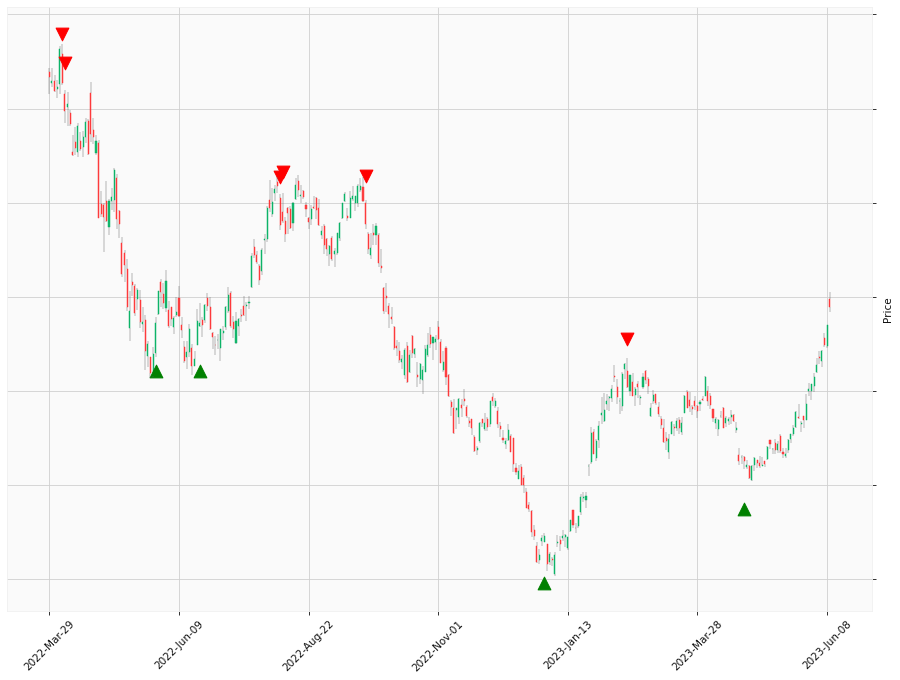
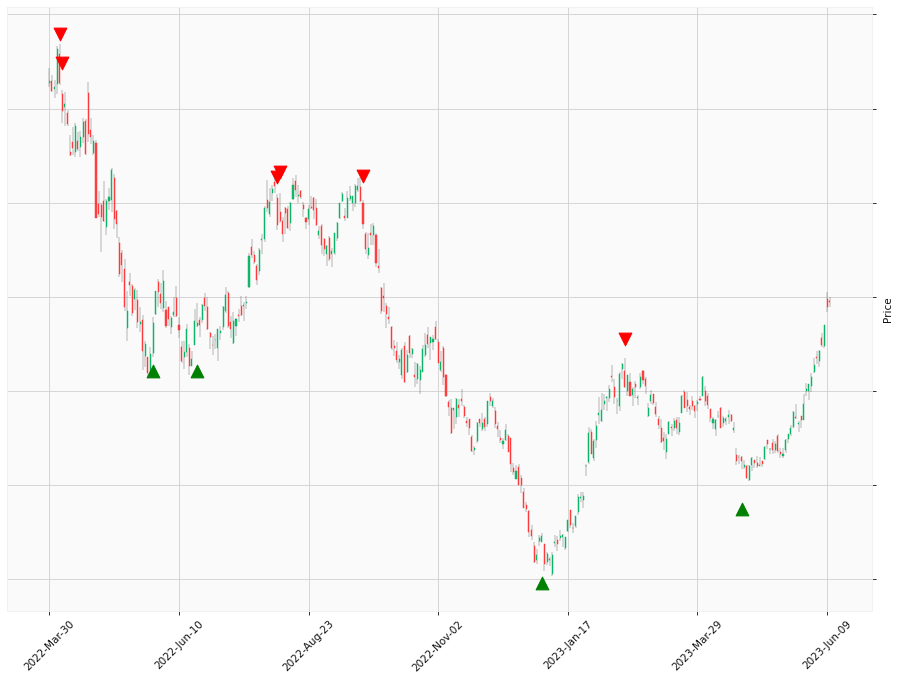
See https://github.com/HappyLabz/HappyLabz_v1/commit/c36e7869bde9970ff51536474ab317aa4ef8d44d from refs/heads/main

diff --git a/SPY.md b/SPY.md
@@ -64,73 +64,81 @@
         <td>4</td>
         <td>Long</td>
         <td>Sep 28 2022 Close</td>
-        <td>-1.06 %</td>
-        <td>44.59 %</td>
-        <td>51.29 %</td>
+        <td>-3.60 %</td>
+        <td>42.04 %</td>
+        <td>47.40 %</td>
     </tr>
     <tr>
         <td>5</td>
         <td>Long</td>
-        <td>Oct 03 2022 Close</td>
-        <td>-0.17 %</td>
-        <td>44.42 %</td>
-        <td>51.03 %</td>
+        <td>Sep 30 2022 Close</td>
+        <td>2.64 %</td>
+        <td>44.68 %</td>
+        <td>51.29 %</td>
     </tr>
     <tr>
         <td>6</td>
         <td>Long</td>
-        <td>Oct 13 2022 Close</td>
-        <td>11.19 %</td>
-        <td>55.60 %</td>
-        <td>67.93 %</td>
+        <td>Oct 03 2022 Close</td>
+        <td>-0.17 %</td>
+        <td>44.51 %</td>
+        <td>51.03 %</td>
     </tr>
     <tr>
         <td>7</td>
-        <td>Short</td>
-        <td>Dec 02 2022 Close</td>
-        <td>-5.08 %</td>
-        <td>60.68 %</td>
-        <td>76.46 %</td>
+        <td>Long</td>
+        <td>Oct 13 2022 Close</td>
+        <td>11.19 %</td>
+        <td>55.70 %</td>
+        <td>67.93 %</td>
     </tr>
     <tr>
         <td>8</td>
-        <td>Long</td>
-        <td>Dec 21 2022 Close</td>
-        <td>-0.72 %</td>
-        <td>59.96 %</td>
-        <td>75.19 %</td>
+        <td>Short</td>
+        <td>Dec 02 2022 Close</td>
+        <td>-5.08 %</td>
+        <td>60.78 %</td>
+        <td>76.46 %</td>
     </tr>
     <tr>
         <td>9</td>
         <td>Long</td>
-        <td>Dec 29 2022 Close</td>
-        <td>7.54 %</td>
-        <td>67.50 %</td>
-        <td>88.39 %</td>
+        <td>Dec 21 2022 Close</td>
+        <td>-0.72 %</td>
+        <td>60.06 %</td>
+        <td>75.19 %</td>
     </tr>
     <tr>
         <td>10</td>
-        <td>Short</td>
-        <td>Feb 03 2023 Close</td>
-        <td>-0.41 %</td>
-        <td>67.91 %</td>
-        <td>89.17 %</td>
+        <td>Long</td>
+        <td>Dec 29 2022 Close</td>
+        <td>7.54 %</td>
+        <td>67.60 %</td>
+        <td>88.39 %</td>
     </tr>
     <tr>
         <td>11</td>
         <td>Short</td>
-        <td>Feb 08 2023 Close</td>
-        <td>-4.61 %</td>
-        <td>72.52 %</td>
-        <td>97.89 %</td>
+        <td>Feb 03 2023 Close</td>
+        <td>-0.41 %</td>
+        <td>68.01 %</td>
+        <td>89.17 %</td>
     </tr>
     <tr>
         <td>12</td>
+        <td>Short</td>
+        <td>Feb 08 2023 Close</td>
+        <td>-4.61 %</td>
+        <td>72.62 %</td>
+        <td>97.89 %</td>
+    </tr>
+    <tr>
+        <td>13</td>
         <td>Long</td>
         <td>Mar 14 2023 Close</td>
-        <td>9.74 %</td>
-        <td>82.26 %</td>
-        <td>117.17 %</td>
+        <td>10.11 %</td>
+        <td>82.73 %</td>
+        <td>117.90 %</td>
     </tr>
     
 </table>
@@ -146,23 +154,23 @@
     <tbody>
         <tr>
             <td>SPY (Buy and Hold)</td>
-            <td>2022-03-31 Close <b>-</b> 2023-06-09 Close</td>
-            <td>-4.81 %</td>
+            <td>2022-03-31 Close <b>-</b> 2023-06-12 Close</td>
+            <td>-4.49 %</td>
         </tr>
         <tr>
             <td>SPY (HLT Cumulative % Gain)</td>
-            <td>2022-03-31 Close <b>-</b> 2023-06-09 Close</td>
-            <td>82.26 %</td>
+            <td>2022-03-31 Close <b>-</b> 2023-06-12 Close</td>
+            <td>82.73 %</td>
         </tr>
         <tr>
             <td>SPY (HLT Reinvested % Gain)</td>
-            <td>2022-03-31 Close <b>-</b> 2023-06-09 Close</td>
-            <td>117.17 %</td>
+            <td>2022-03-31 Close <b>-</b> 2023-06-12 Close</td>
+            <td>117.90 %</td>
         </tr>
         <tr>
             <td>S&P 500 (Buy and Hold)</td>
-            <td>2022-03-31 Close <b>-</b> 2023-06-09 Close</td>
-            <td>-4.81 %</td>
+            <td>2022-03-31 Close <b>-</b> 2023-06-12 Close</td>
+            <td>-4.49 %</td>
         </tr>
     </tbody>
 </table>

diff --git a/TSLA.md b/TSLA.md
@@ -112,9 +112,9 @@
         <td>10</td>
         <td>Long</td>
         <td>Apr 24 2023 Close</td>
-        <td>50.35 %</td>
-        <td>249.71 %</td>
-        <td>679.69 %</td>
+        <td>51.98 %</td>
+        <td>251.34 %</td>
+        <td>688.12 %</td>
     </tr>
     
 </table>
@@ -130,23 +130,23 @@
     <tbody>
         <tr>
             <td>TSLA (Buy and Hold)</td>
-            <td>2022-04-05 Close <b>-</b> 2023-06-09 Close</td>
-            <td>-32.81 %</td>
+            <td>2022-04-05 Close <b>-</b> 2023-06-12 Close</td>
+            <td>-32.09 %</td>
         </tr>
         <tr>
             <td>TSLA (HLT Cumulative % Gain)</td>
-            <td>2022-04-05 Close <b>-</b> 2023-06-09 Close</td>
-            <td>249.71 %</td>
+            <td>2022-04-05 Close <b>-</b> 2023-06-12 Close</td>
+            <td>251.34 %</td>
         </tr>
         <tr>
             <td>TSLA (HLT Reinvested % Gain)</td>
-            <td>2022-04-05 Close <b>-</b> 2023-06-09 Close</td>
-            <td>679.69 %</td>
+            <td>2022-04-05 Close <b>-</b> 2023-06-12 Close</td>
+            <td>688.12 %</td>
         </tr>
         <tr>
             <td>S&P 500 (Buy and Hold)</td>
-            <td>2022-04-05 Close <b>-</b> 2023-06-09 Close</td>
-            <td>-4.68 %</td>
+            <td>2022-04-05 Close <b>-</b> 2023-06-12 Close</td>
+            <td>-4.37 %</td>
         </tr>
     </tbody>
 </table>

diff --git a/AAPL.md b/AAPL.md
@@ -80,9 +80,9 @@
         <td>6</td>
         <td>Long</td>
         <td>Mar 02 2023 Close</td>
-        <td>24.02 %</td>
-        <td>105.48 %</td>
-        <td>159.65 %</td>
+        <td>25.10 %</td>
+        <td>106.56 %</td>
+        <td>161.92 %</td>
     </tr>
     
 </table>
@@ -98,23 +98,23 @@
     <tbody>
         <tr>
             <td>AAPL (Buy and Hold)</td>
-            <td>2022-03-31 Close <b>-</b> 2023-06-09 Close</td>
-            <td>3.64 %</td>
+            <td>2022-03-31 Close <b>-</b> 2023-06-12 Close</td>
+            <td>4.54 %</td>
         </tr>
         <tr>
             <td>AAPL (HLT Cumulative % Gain)</td>
-            <td>2022-03-31 Close <b>-</b> 2023-06-09 Close</td>
-            <td>105.48 %</td>
+            <td>2022-03-31 Close <b>-</b> 2023-06-12 Close</td>
+            <td>106.56 %</td>
         </tr>
         <tr>
             <td>AAPL (HLT Reinvested % Gain)</td>
-            <td>2022-03-31 Close <b>-</b> 2023-06-09 Close</td>
-            <td>159.65 %</td>
+            <td>2022-03-31 Close <b>-</b> 2023-06-12 Close</td>
+            <td>161.92 %</td>
         </tr>
         <tr>
             <td>S&P 500 (Buy and Hold)</td>
-            <td>2022-03-31 Close <b>-</b> 2023-06-09 Close</td>
-            <td>-4.81 %</td>
+            <td>2022-03-31 Close <b>-</b> 2023-06-12 Close</td>
+            <td>-4.49 %</td>
         </tr>
     </tbody>
 </table>
